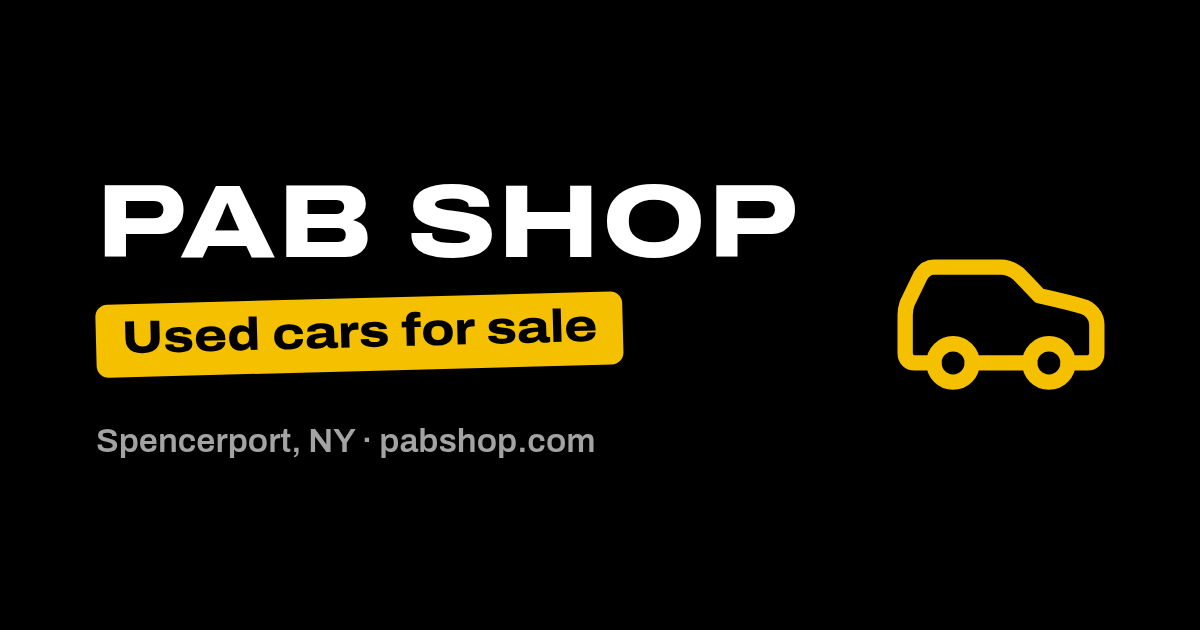
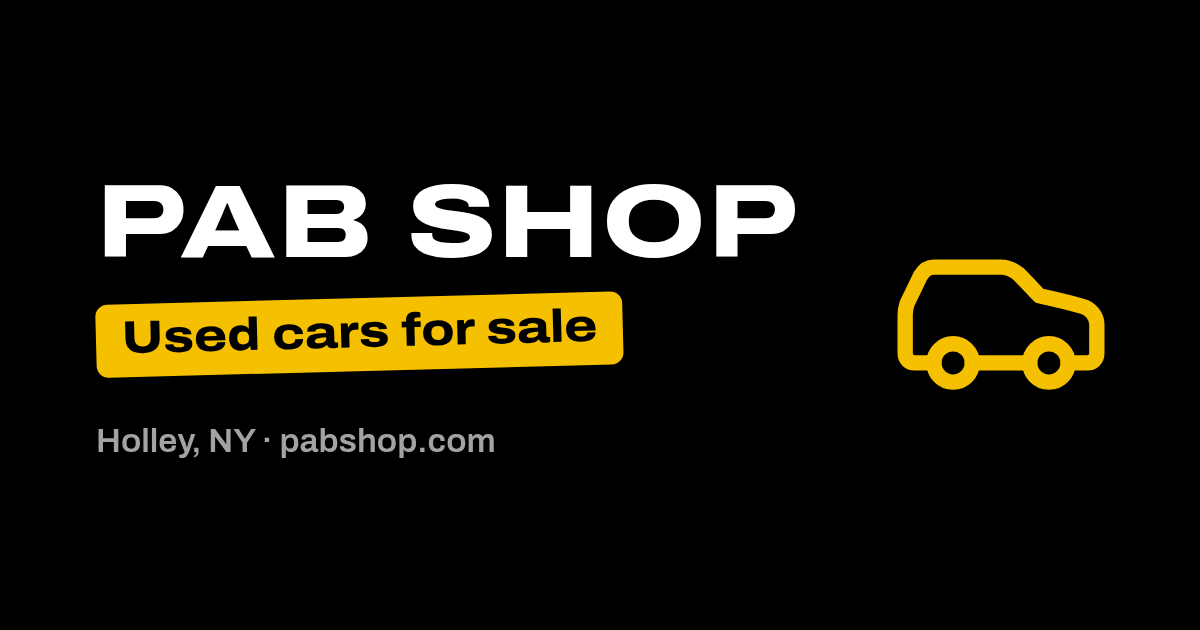
Footer shows the street address, linked to Google Maps

Changed region(s): [[0.0617, 0.6635, 0.4933, 0.7238]]

diff --git a/car.html b/car.html
@@ -18,7 +18,7 @@
   <meta name="twitter:card" content="summary_large_image">
   <script src="js/theme.js?v=a78e6b4f5d"></script>
   <link rel="preload" href="fonts/archivo-latin.woff2" as="font" type="font/woff2" crossorigin>
-  <link rel="stylesheet" href="css/site.css?v=868955b210">
+  <link rel="stylesheet" href="css/site.css?v=98304f7703">
 </head>
 <body>
 <script src="js/icons.js?v=ebb2e9f938"></script>
@@ -106,7 +106,7 @@
       <li><a data-email><svg class="ic" aria-hidden="true"><use href="#mail"></use></svg><span data-email-label></span></a></li>
     </ul>
     <div class="footer-note">
-      <p><svg class="ic" aria-hidden="true"><use href="#map-pin"></use></svg>Spencerport, NY</p>
+      <p><a href="https://www.google.com/maps/search/?api=1&amp;query=56+State+St%2C+Holley%2C+NY+14470" target="_blank" rel="noopener"><svg class="ic" aria-hidden="true"><use href="#map-pin"></use></svg>56 State St, Holley, NY 14470</a></p>
       <p class="copyright">&copy; <span data-year></span> PAB SHOP</p>
     </div>
   </div>

diff --git a/index.html b/index.html
@@ -18,7 +18,7 @@
   <meta name="twitter:card" content="summary_large_image">
   <script src="js/theme.js?v=a78e6b4f5d"></script>
   <link rel="preload" href="fonts/archivo-latin.woff2" as="font" type="font/woff2" crossorigin>
-  <link rel="stylesheet" href="css/site.css?v=868955b210">
+  <link rel="stylesheet" href="css/site.css?v=98304f7703">
 </head>
 <body>
 <script src="js/icons.js?v=ebb2e9f938"></script>
@@ -99,7 +99,7 @@
       <li><a data-email><svg class="ic" aria-hidden="true"><use href="#mail"></use></svg><span data-email-label></span></a></li>
     </ul>
     <div class="footer-note">
-      <p><svg class="ic" aria-hidden="true"><use href="#map-pin"></use></svg>Spencerport, NY</p>
+      <p><a href="https://www.google.com/maps/search/?api=1&amp;query=56+State+St%2C+Holley%2C+NY+14470" target="_blank" rel="noopener"><svg class="ic" aria-hidden="true"><use href="#map-pin"></use></svg>56 State St, Holley, NY 14470</a></p>
       <p class="copyright">&copy; <span data-year></span> PAB SHOP</p>
     </div>
   </div>

diff --git a/sold.html b/sold.html
@@ -18,7 +18,7 @@
   <meta name="twitter:card" content="summary_large_image">
   <script src="js/theme.js?v=a78e6b4f5d"></script>
   <link rel="preload" href="fonts/archivo-latin.woff2" as="font" type="font/woff2" crossorigin>
-  <link rel="stylesheet" href="css/site.css?v=868955b210">
+  <link rel="stylesheet" href="css/site.css?v=98304f7703">
 </head>
 <body>
 <script src="js/icons.js?v=ebb2e9f938"></script>
@@ -61,7 +61,7 @@
       <li><a data-email><svg class="ic" aria-hidden="true"><use href="#mail"></use></svg><span data-email-label></span></a></li>
     </ul>
     <div class="footer-note">
-      <p><svg class="ic" aria-hidden="true"><use href="#map-pin"></use></svg>Spencerport, NY</p>
+      <p><a href="https://www.google.com/maps/search/?api=1&amp;query=56+State+St%2C+Holley%2C+NY+14470" target="_blank" rel="noopener"><svg class="ic" aria-hidden="true"><use href="#map-pin"></use></svg>56 State St, Holley, NY 14470</a></p>
       <p class="copyright">&copy; <span data-year></span> PAB SHOP</p>
     </div>
   </div>

diff --git a/css/site.css b/css/site.css
@@ -457,6 +457,7 @@ a, img, button { -webkit-user-drag: none; }
 .footer-note { display: grid; gap: var(--space-2); align-content: start; color: var(--muted); font-weight: 600; }
 .footer-note p { display: flex; align-items: center; gap: var(--space-3); margin: 0; min-height: 44px; }
 .footer-note .ic { width: 20px; height: 20px; }
+.footer-note a { display: flex; align-items: center; gap: var(--space-3); min-height: 44px; color: inherit; text-decoration: none; }
 .footer-note .copyright { display: block; min-height: 0; font-weight: 500; font-size: 0.875rem; }
 
 /* ---------- Phone contact bar ---------- */
@@ -666,6 +667,7 @@ a, img, button { -webkit-user-drag: none; }
   .sort-button:hover { border-color: var(--ink); }
   .sort-menu button:hover { background: var(--surface); }
   .footer-contact a:hover .ic { color: var(--ink); }
+  .footer-note a:hover { color: var(--ink); }
   .back:hover { color: var(--ink); }
   .gal-btn:hover { background: rgba(0, 0, 0, 0.75); }
   .thumbs button:hover { opacity: 1; }

diff --git a/404.html b/404.html
@@ -46,7 +46,7 @@
       <li><a data-email><svg class="ic" aria-hidden="true"><use href="#mail"></use></svg><span data-email-label></span></a></li>
     </ul>
     <div class="footer-note">
-      <p><svg class="ic" aria-hidden="true"><use href="#map-pin"></use></svg>Spencerport, NY</p>
+      <p><a href="https://www.google.com/maps/search/?api=1&amp;query=56+State+St%2C+Holley%2C+NY+14470" target="_blank" rel="noopener"><svg class="ic" aria-hidden="true"><use href="#map-pin"></use></svg>56 State St, Holley, NY 14470</a></p>
       <p class="copyright">&copy; <span data-year></span> PAB SHOP</p>
     </div>
   </div>
